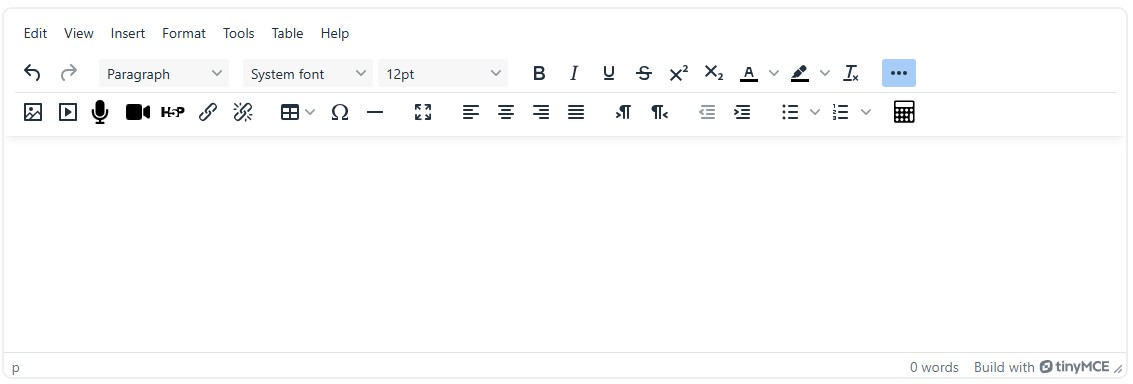
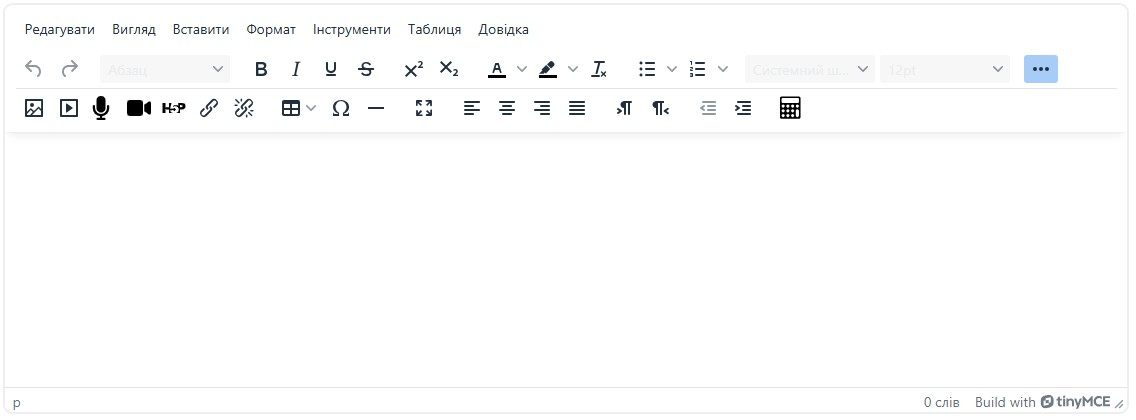
README: screenshots of 1.7.2, dark mode and phone

diff --git a/README.md b/README.md
@@ -19,7 +19,7 @@ and does not load some of its plugins. This plugin brings them back:
 
 Access is controlled by the `tiny/fontoptions:use` capability.
 
-![The editor toolbar with the plugin enabled](screenshots/toolbar.jpg)
+![The editor toolbar on a computer, with all buttons visible](screenshots/toolbar.jpg)
 
 ## Toolbar layout
 
@@ -92,6 +92,14 @@ to some roles, for example teachers only. Moodle's own Accessibility checker (ti
 reports low contrast and other issues in the edited text.
 
 ## Screenshots
+
+Dark mode (Moodle 5.2 with local_boost_dark):
+
+![Dark mode](screenshots/dark-mode.jpg)
+
+| Phone | Phone, "More" opened |
+|---|---|
+| ![Phone: the most used buttons first](screenshots/phone.jpg) | ![Phone: More opened, the editor grows](screenshots/phone-more.jpg) |
 
 | Headings | Font family | Font size |
 |---|---|---|
